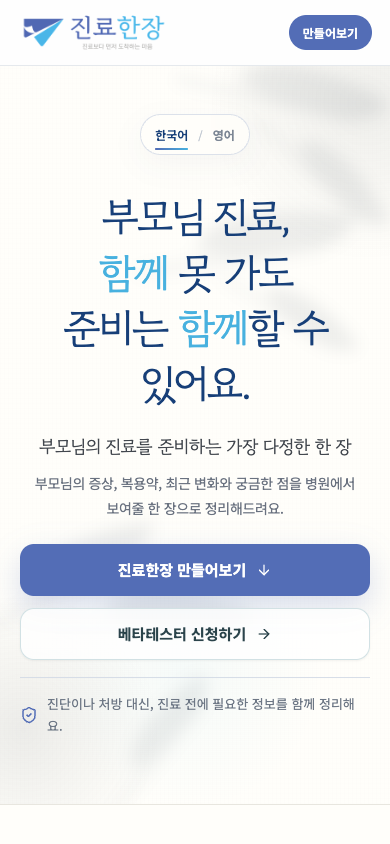
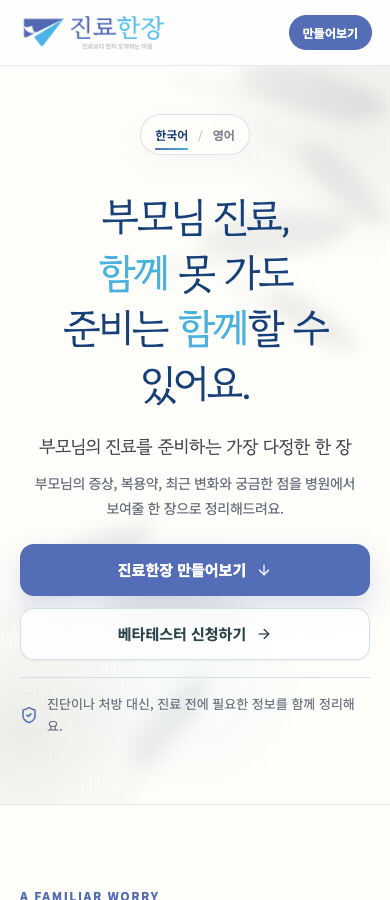
Show hero content immediately and right-size first-screen images

diff --git a/src/styles.css b/src/styles.css
@@ -680,7 +680,6 @@ a {
   background: rgba(255, 254, 250, 0.72);
   box-shadow: 0 10px 30px rgba(35, 53, 84, 0.045);
   backdrop-filter: blur(9px);
-  animation: hero-copy-arrive 720ms 80ms cubic-bezier(0.22, 1, 0.36, 1) both;
 }
 
 .language-option {
@@ -742,7 +741,6 @@ a {
   line-height: 1.42;
   letter-spacing: -0.065em;
   word-break: keep-all;
-  animation: hero-copy-arrive 820ms 170ms cubic-bezier(0.22, 1, 0.36, 1) both;
 }
 
 .hero-composed h1 span {
@@ -767,7 +765,6 @@ a {
   font-size: clamp(18px, 1.65vw, 25px);
   line-height: 1.65;
   letter-spacing: -0.04em;
-  animation: hero-copy-arrive 820ms 250ms cubic-bezier(0.22, 1, 0.36, 1) both;
 }
 
 .hero-composed-description {
@@ -778,12 +775,10 @@ a {
   line-height: 1.85;
   letter-spacing: -0.025em;
   word-break: keep-all;
-  animation: hero-copy-arrive 820ms 310ms cubic-bezier(0.22, 1, 0.36, 1) both;
 }
 
 .hero-composed-actions {
   margin-top: clamp(24px, 2.6vw, 36px);
-  animation: hero-copy-arrive 820ms 370ms cubic-bezier(0.22, 1, 0.36, 1) both;
 }
 
 .hero-composed-notice {
@@ -791,7 +786,6 @@ a {
   margin-top: 17px;
   padding-top: 15px;
   border-top: 1px solid rgba(211, 218, 229, 0.9);
-  animation: hero-copy-arrive 820ms 430ms cubic-bezier(0.22, 1, 0.36, 1) both;
 }
 
 .hero-paper-stage {
@@ -1100,17 +1094,6 @@ a {
   }
 }
 
-@keyframes hero-copy-arrive {
-  from {
-    opacity: 0;
-    transform: translateY(20px);
-  }
-
-  to {
-    opacity: 1;
-    transform: translateY(0);
-  }
-}
 
 @keyframes paper-shadow-breathe {
   from {

diff --git a/src/lib/use-scroll-reveal.ts b/src/lib/use-scroll-reveal.ts
@@ -26,14 +26,16 @@ export function useScrollReveal(rootRef: RefObject<HTMLElement | null>) {
       entries.forEach(entry => { if (entry.isIntersecting) show(entry.target); });
     }, { threshold: 0, rootMargin: "0px 0px -24px" });
     const siblings = new Map<Element, number>();
-    elements.forEach(element => {
+    // Batch layout reads before class/style writes to avoid layout thrashing.
+    const alreadyOnScreen = elements.map(element => element.getBoundingClientRect().top < window.innerHeight);
+    elements.forEach((element, position) => {
       const parent = element.parentElement!;
       const index = siblings.get(parent) ?? 0;
       siblings.set(parent, index + 1);
       // Start each group together; long lists never accumulate a long wait.
       element.style.setProperty("--reveal-delay", `${Math.min(index, 3) * 60}ms`);
       element.classList.add("scroll-reveal");
-      if (element.getBoundingClientRect().top < window.innerHeight) show(element);
+      if (alreadyOnScreen[position]) show(element);
       else observer.observe(element);
     });
     const onPreferenceChange = () => {

diff --git a/src/components/landing/HeroSection.tsx b/src/components/landing/HeroSection.tsx
@@ -93,10 +93,12 @@ export default function HeroSection({ language, changeLanguage }: { language: La
             <div className="hero-paper-stage" aria-hidden="true">
               <div className="hero-paper-card">
                 <img
-                  src="/jinryo-hanjang-symbol-cropped.png"
+                  src="/symbol.webp"
+                  srcSet="/symbol-small.webp 96w, /symbol.webp 192w"
+                  sizes="96px"
                   alt=""
-                  width="120"
-                  height="92"
+                  width="192"
+                  height="166"
                 />
                 <div className="hero-paper-rule hero-paper-rule-strong" />
                 <div className="hero-paper-lines">

diff --git a/src/components/landing/shared.tsx b/src/components/landing/shared.tsx
@@ -8,6 +8,8 @@ export function Brand({ compact = false, priority = false }: { compact?: boolean
       <img
         className="brand-logo"
         src="/figma/logo.webp"
+        srcSet="/figma/logo-small.webp 176w, /figma/logo.webp 340w"
+        sizes={compact ? "(max-width: 640px) 152px, 176px" : "210px"}
         fetchPriority={priority ? "high" : "auto"}
         width="340"
         height="100"

diff --git a/docs/lighthouse.md b/docs/lighthouse.md
@@ -14,8 +14,11 @@
 ## 발견 사항과 수정
 
 - 로고 이미지 전송량 및 LCP 우선순위: PNG 19,346바이트를 동일 해상도의 무손실 WebP 9,376바이트로 변환(약 52% 감소). 헤더 로고에 `fetchPriority="high"` 지정. PDF 삽입용 PNG 원본 유지.
+- 반응형 이미지: 로고 176/340px, 히어로 심볼 96/192px WebP를 `srcSet`으로 제공해 실제 표시 크기·화면 밀도에 맞춰 다운로드. 기존 67,614바이트 심볼 PNG는 화면에서 3,090~5,876바이트 WebP로 대체.
+- 제목 표시 지연: 중간 운영 재측정에서 모바일 LCP 4.7초(성능 82)가 관측되어 첫 화면 제목·설명·CTA의 지연 페이드인을 제거. 정보는 즉시 표시하며 아래 섹션의 스크롤 모션과 장식 모션을 유지.
 - 불필요한 초기 DOM 작업: 한국어 원본 페이지는 번역용 전체 DOM 순회와 MutationObserver를 만들지 않도록 수정. 영어 번역은 유지.
 - 스크롤 모션: 18px 이동·480ms 페이드·600ms 감속, 같은 그룹 60ms 간격(최대 180ms), 1회만 표시. 큰 섹션도 진입 즉시 나타나도록 개선.
+- 스크롤 초기화의 크기 측정을 스타일 변경 전에 한 번에 수행하여 반복적인 강제 레이아웃 계산을 줄임.
 - 키보드 포커스가 들어오면 콘텐츠를 즉시 표시. 실행 중 동작 줄이기 설정 변경에도 전체 콘텐츠를 표시하고 모션을 중단. JavaScript/IntersectionObserver가 없어도 정보는 보임.
 - 접근성·SEO 자동 검사에서 실패 항목은 없었습니다. 반응형·키보드·입력 흐름은 별도 Playwright 검사로 보완합니다.
 
